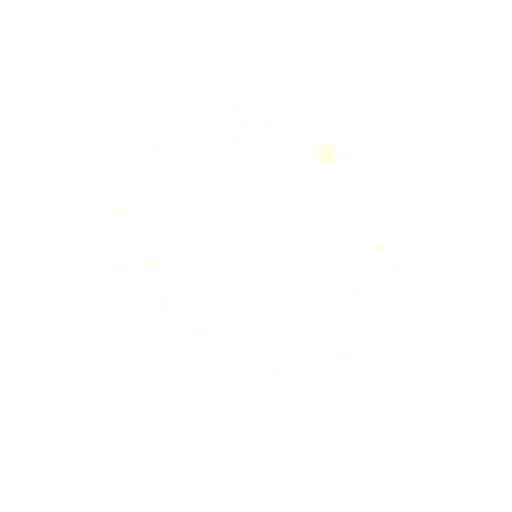
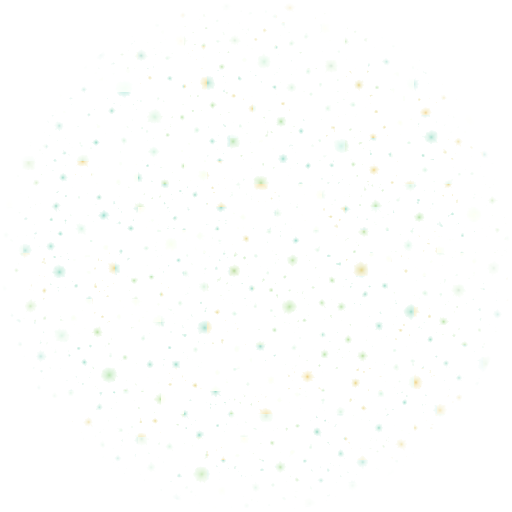
Spread the dust evenly and give it the orb's colours
The last plates were a cloud, dense in the middle and gone before the
rim, because that is what I asked the generator for. Wrong: the dust
should be the same everywhere inside the orb. That was the one thing the
hand-drawn version got right and I threw it away fixing the material.

So the plates are generated with even coverage edge to edge, and the only
radial shaping left is a trim at the rim, which exists because the plate
is square and the orb is round: without it there are specks floating
outside the thing they belong to. It starts at 78% of the radius, where
the feather underneath has already begun, so the two fade together. The
core knock-down is gone.

The key was also wrong, and this one was measurable rather than a matter
of taste. These plates are DIM: 90% of their pixels are true black and
the dust sits between 0.05 and 0.3, with only the brightest bokeh
reaching 0.7. The floor of 0.1 carried over from the cloud plates threw
away the entire 0.05-0.1 band, which is where most of the fine specks
are. 0.8% of the plate survived and the orb came back looking clean. The
floor now sits just above the plate's black, a gain takes the brightest
speck to full and a 0.5 gamma lifts the dim majority, which is the one
that actually matters. 3.9-7.5% coverage now.

Colour: the generator returns mostly warm cream, which over a teal field
is white confetti. Each speck is pushed 78% of the way toward one colour
[…]

diff --git a/app/src/components/grain.tsx b/app/src/components/grain.tsx
@@ -84,7 +84,7 @@ const DUST = [
   require("../../assets/checkin-dust-c.png"),
 ];
 const DUST_TILE = require("../../assets/checkin-dust-tile.png");
-const TILE = 256;
+const TILE = 512;
 
 /*
   Turn rates in ms per revolution, alternating sign, none of them a
